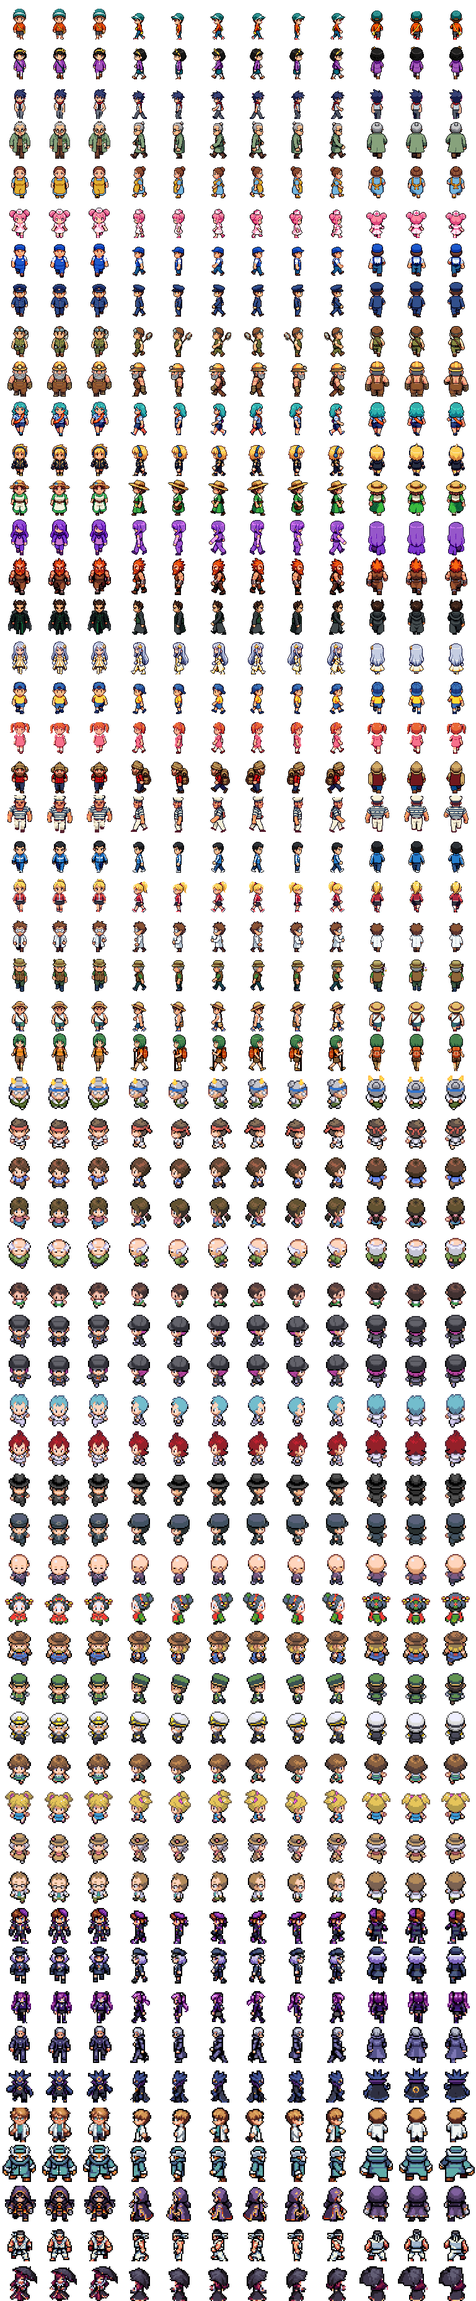
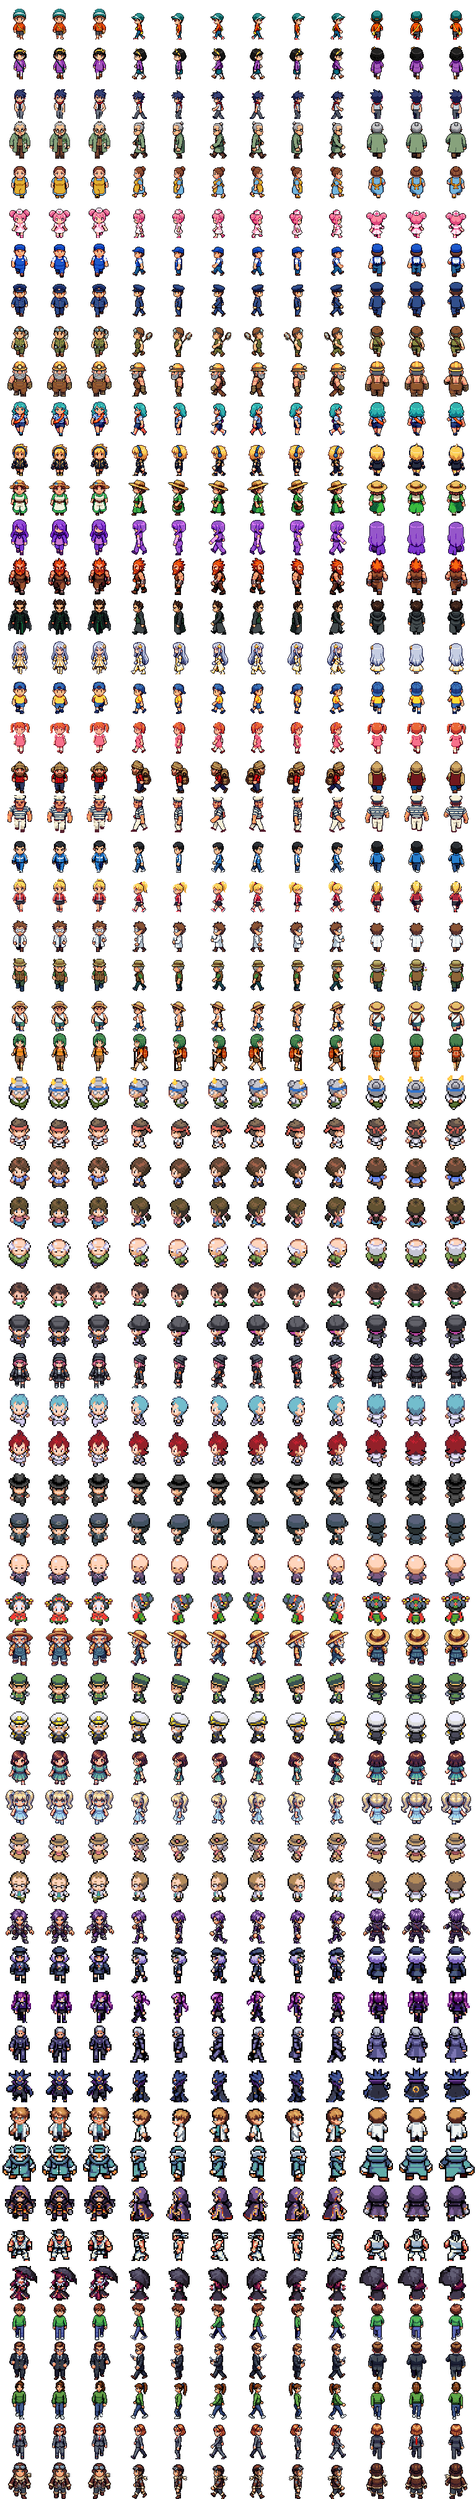
feat(odyssee): crée ton personnage et change de style à la boutique de mode de Métropole ; Odyssée 3.69
Claude-Session: https://claude.ai/code/session_01E9CUaRXpXWBZHeUs2KXzJU

diff --git a/odyssee/js/data/sprites.js b/odyssee/js/data/sprites.js
@@ -1,2 +1,2 @@
 // Généré par tools/odyssee-sprites.py — ne pas modifier à la main.
-export const SPRITES = {"crea":["capyousse","capyflore","capysaule","mechelet","ciroulet","lustrelle","narvi","narvalier","narvaillant","piouf","piouffon","plumorage","grignotin","ronchonnet","chouillon","hulumiere","larvoile","cocoreille","vitrailune","bourdonnet","champinou","champitron","cerfantome","noctaile","noctailor","galetin","rocrabe","cristaupe","bulotin","bulotide","croabulle","croamonde","crevitonne","gerbizz","gerboltz","ampoulet","tricotine","corolline","songebelle","revelaine","tisonnard","brasieraud","sombrecaille","nocturmine","frimousse","morsegivre","boulonnet","rouagant","draquelin","draconfle","cieldrake","odyssor","lutinelle","feerielle","pugnaton","poingtonnerre","spectrille","spectrelune","sablopode","dunosaure"],"chars":{"w":64,"h":64,"d":2,"rows":{"player_m":0,"player_f":1,"theo":2,"saule":3,"maman":4,"nurse":5,"vendeur":6,"garde":7,"hector":8,"basalte":9,"marine":10,"volta":11,"flora":12,"sibylle":13,"pyros":14,"drakos":15,"celestine":16,"gamin":17,"fillette":18,"montagnard":19,"marin":20,"topdresseur":21,"topdresseuse":22,"scientifique":23,"pecheur":24,"insectomane":25,"randonneuse":26,"medium":27,"karateka":28,"habitant":29,"habitante":30,"vieil_homme":31,"enfant":32,"brume":33,"brume_f":34,"sylas":35,"ariane":36,"nox":37,"voleur":38,"pretre":39,"kimono":40,"jardinier":41,"facteur":42,"capitaine":43,"lucie":44,"fillette2":45,"dame":46,"savant":47,"eclipse_m":48,"eclipse_f":49,"nyx":50,"erebe":51,"nocturne":52,"lumen":53,"frimas":54,"spectrel":55,"brutus":56,"ombrelle":57}},"portraits":["hector","basalte","marine","volta","flora","sibylle","pyros","drakos","celestine","saule","theo","gamin","fillette","montagnard","marin","topdresseur","topdresseuse","scientifique","pecheur","insectomane","randonneuse","medium","karateka","habitant","habitante"],"items":["poke-ball","great-ball","ultra-ball","potion","super-potion","hyper-potion","max-potion","full-heal","revive","antidote","paralyze-heal","awakening","burn-heal","ice-heal","full-restore","escape-rope","repel","super-repel","max-repel","rare-candy","fire-stone","water-stone","thunder-stone","leaf-stone","moon-stone","sun-stone","oran-berry","ether","elixir","bag","dex","town-map","wallet","notebook","letter","gift"],"nature":{"tree":[47,48,2],"tree2":[47,48,2],"pine":[43,60,2],"snowpine":[43,61,2],"deadtree":[39,57,2],"palm":[49,56,2],"bush":[27,24,2],"rock":[30,28,2],"caverock":[32,29,2],"stalag":[26,44,2],"tuft":[32,40,2],"tuft1":[36,40,2],"darktuft":[32,40,2],"flowers_r":[27,26,2],"flowers_y":[27,26,2],"flowers_w":[27,26,2],"sign":[26,36,2],"fence":[64,48,2],"lamp":[14,48,2],"mailbox":[23,35,2],"pot":[18,32,2],"itemball":[15,15,2],"bang":[14,16],"statue":[26,55,2],"tree3":[47,48,2],"crackrock":[32,28,2],"cuttree":[15,32,2],"snowtuft":[32,40,2],"gymstatue":[46,82,2],"tuft0":[36,40,2],"tuft2":[36,40,2],"tuft3":[36,40,2],"darktuft0":[36,40,2],"darktuft1":[36,40,2],"darktuft2":[36,40,2],"darktuft3":[36,40,2],"snowtuft0":[36,40,2],"snowtuft1":[36,40,2],"snowtuft2":[36,40,2],"grassfront":[32,28,2],"grassfront2":[32,28,2],"darkfront":[32,28,2],"darkfront2":[32,28,2],"snowfront":[32,28,2],"snowfront2":[32,28,2],"fence_v":[24,104,2],"fence_v0":[24,104,2],"velo_s":[28,42,2],"velo_w":[38,30,2],"velo_e":[38,30,2],"velo_n":[24,37,2]},"mobilier":{"healer":[41,40,2],"pc":[35,39,2],"books":[34,40,2],"tv":[26,31,2],"bed":[26,39,2],"table":[24,28,2],"plant":[25,40,2],"gymstatue":[46,82,2],"shelf":[34,39,2],"counterseg":[34,23,2],"chair":[16,32,2],"sofa":[40,26,2],"fridge":[21,40,2],"kitchen":[40,27,2],"clock":[19,40,2],"painting":[25,22,2],"boxes":[33,30,2],"labmachine":[25,40,2],"startertable":[41,28,2],"bench":[39,22,2],"trash":[17,22,2],"vase":[16,25,2],"fireplace":[35,40,2],"rug":[37,18,2]},"sol":["grass0","grass1","grass2","grass3","tall0","tall1","forest0","forest1","path","sand","pave","ash0","ash1","snow0","snow1","cave","water0","water1","water2","water3","deep","flowerR","flowerY","flowerW","ledge","ledgeE","ledgeW","bridge","stairs","cavestairs","mat","matgreen","cliff","cliffplain","cavewall","cavetop","wall_in","wall_center","wall_mart","wall_gym","wall_league","walltop","floor_wood","floor_center","floor_mart","floor_lab","floor_league","counter","floor_gymBug","floor_gymRock","floor_gymWater","floor_gymElec","floor_gymGrass","floor_gymPsy","floor_gymFire","floor_gymDragon","counterfront","martfront","shelf","roof_flat","lava0","lava1","grass4","grass5","darktall0","darktall1","snowtall0","snowtall1"],"facades":["arene","base","boutique","centre","chalet","grotte","labo","ligue","maison","mirage","musee","pagode","pecheur","phare","port"],"natureV2":true,"dresseurs":["player_m","player_f","theo","garde","hector","basalte","marine","volta","flora","sibylle","pyros","drakos","celestine","gamin","fillette","montagnard","marin","topdresseur","topdresseuse","scientifique","pecheur","insectomane","randonneuse","medium","karateka","habitant","habitante","vieil_homme","enfant","brume","brume_f","sylas","ariane","nox","voleur","pretre","kimono","brutus","ombrelle","spectrel","frimas","nocturne","eclipse_f","eclipse_m","erebe","nyx"],"sol32":["snow0","snow1","snow2","snow3","ash0","ash1","gravel0","gravel1","path0","path1","sand0","sand1","water0","water1","water2","water3","pave0","pave1","grass0","grass1","deep0","deep1","lava0","lava1","grass2","flowerW","flowerR","field","forest0","forest1","leaves0","leaves1","cliffG","cliffG2","cliffGstairs","cliffG3","cliffR","cliffR2","cliffRstairs","cliffR3","cliffS","cliffS2","cliffSstairs","cliffS3","stairs","stairs2","bridgeEW","bridgeEW2","bridgeNS","bridgeNS2","dock0","dock1","dockEnd0","dockEnd1","floor_wood","floor_wood2","floor_beige","floor_pink","floor_pink2","floor_blue","floor_blue2","floor_round","floor_dark","floor_grate","floor_marble","floor_marble2","carpetL","carpet","carpetR","carpet2","floor_metal","floor_metal2","floor_grate2","floor_hazard","cave0","cave1","cavepuddle","ice","crystal","floor_white","floor_stone","floor_dark2","floor_glyph","floor_glyph2","floor_sand","tatami","ledge","ledgeW","ledgeE","ladder","hole","waterrock","whirl","crackrock"],"herbes":{"prairie":["a","b","bl","bot","br","c","in_ne","in_nw","in_se","in_sw","l","r","t","tl","tr"],"bois":["a","b","bl","bot","br","c","in_ne","in_nw","in_se","in_sw","l","r","t","tl","tr"],"neige":["a","b","bl","bot","br","c","in_ne","in_nw","in_se","in_sw","l","r","t","tl","tr"]},"hgss":{"mer":[16,8],"rivage":[32,8],"vague":[16,4],"fleur_r":[16,4],"fleur_y":[16,4],"fleur_b":[16,4],"fleur_p":[16,4],"fleur_o":[16,3],"fleur_w":[16,3],"rocher_mer":[32,6]},"deco":{"erable":[24,32,1],"cerisier":[24,34,1],"arbre_automne":[24,31,1],"panneau_bois":[16,15,1],"banc":[24,17,1],"fontaine":[40,32,1],"gargouille":[12,27,1],"pilier_ball":[12,33,1],"caisse":[14,18,1],"tonneau":[12,16,1],"borne":[12,14,1],"bouee":[12,11,1],"parasol":[24,26,1],"bateau":[48,21,1],"lanterne":[12,26,1],"torii":[48,38,1],"stele":[12,27,1],"colonne":[12,41,1],"sanctuaire":[32,38,1],"cristal":[16,28,1],"rocher_grand":[20,19,1],"butte":[16,14,1],"machine_labo":[32,34,1],"table_balls":[32,19,1],"livres":[16,20,1],"lampe_phare":[24,32,1],"telescope":[16,26,1],"corde":[16,11,1],"trone":[32,39,1],"brasero":[14,30,1],"statue_dragon":[20,39,1],"console":[32,28,1],"ecran_carte":[32,27,1],"cuve":[16,37,1],"caisses":[16,29,1],"cloche":[32,30,1],"coussin":[16,14,1],"fossile":[32,25,1],"squelette":[64,31,1]},"carte":["arbre_o","arbre_v","arbres_o","remous","puits","grotte","grotte_p","grotte_m","cascade","colline","montagne"],"suiveurs":{"w":64,"h":64,"d":2,"rows":{"1":0,"2":1,"3":2,"4":3,"5":4,"6":5,"7":6,"8":7,"9":8,"152":9,"153":10,"154":11,"155":12,"156":13,"157":14,"158":15,"159":16,"160":17,"1001":18,"1002":19,"1003":20,"1004":21,"1005":22,"1006":23,"1007":24,"1008":25,"1009":26}}};
+export const SPRITES = {"crea":["capyousse","capyflore","capysaule","mechelet","ciroulet","lustrelle","narvi","narvalier","narvaillant","piouf","piouffon","plumorage","grignotin","ronchonnet","chouillon","hulumiere","larvoile","cocoreille","vitrailune","bourdonnet","champinou","champitron","cerfantome","noctaile","noctailor","galetin","rocrabe","cristaupe","bulotin","bulotide","croabulle","croamonde","crevitonne","gerbizz","gerboltz","ampoulet","tricotine","corolline","songebelle","revelaine","tisonnard","brasieraud","sombrecaille","nocturmine","frimousse","morsegivre","boulonnet","rouagant","draquelin","draconfle","cieldrake","odyssor","lutinelle","feerielle","pugnaton","poingtonnerre","spectrille","spectrelune","sablopode","dunosaure"],"chars":{"w":64,"h":64,"d":2,"rows":{"player_m":0,"player_f":1,"theo":2,"saule":3,"maman":4,"nurse":5,"vendeur":6,"garde":7,"hector":8,"basalte":9,"marine":10,"volta":11,"flora":12,"sibylle":13,"pyros":14,"drakos":15,"celestine":16,"gamin":17,"fillette":18,"montagnard":19,"marin":20,"topdresseur":21,"topdresseuse":22,"scientifique":23,"pecheur":24,"insectomane":25,"randonneuse":26,"medium":27,"karateka":28,"habitant":29,"habitante":30,"vieil_homme":31,"enfant":32,"brume":33,"brume_f":34,"sylas":35,"ariane":36,"nox":37,"voleur":38,"pretre":39,"kimono":40,"jardinier":41,"facteur":42,"capitaine":43,"lucie":44,"fillette2":45,"dame":46,"savant":47,"eclipse_m":48,"eclipse_f":49,"nyx":50,"erebe":51,"nocturne":52,"lumen":53,"frimas":54,"spectrel":55,"brutus":56,"ombrelle":57,"base_m":58,"pierre":59,"base_f":60,"margot":61,"aurele":62}},"portraits":["hector","basalte","marine","volta","flora","sibylle","pyros","drakos","celestine","saule","theo","gamin","fillette","montagnard","marin","topdresseur","topdresseuse","scientifique","pecheur","insectomane","randonneuse","medium","karateka","habitant","habitante"],"items":["poke-ball","great-ball","ultra-ball","potion","super-potion","hyper-potion","max-potion","full-heal","revive","antidote","paralyze-heal","awakening","burn-heal","ice-heal","full-restore","escape-rope","repel","super-repel","max-repel","rare-candy","fire-stone","water-stone","thunder-stone","leaf-stone","moon-stone","sun-stone","oran-berry","ether","elixir","bag","dex","town-map","wallet","notebook","letter","gift"],"nature":{"tree":[47,48,2],"tree2":[47,48,2],"pine":[43,60,2],"snowpine":[43,61,2],"deadtree":[39,57,2],"palm":[49,56,2],"bush":[27,24,2],"rock":[30,28,2],"caverock":[32,29,2],"stalag":[26,44,2],"tuft":[32,40,2],"tuft1":[36,40,2],"darktuft":[32,40,2],"flowers_r":[27,26,2],"flowers_y":[27,26,2],"flowers_w":[27,26,2],"sign":[26,36,2],"fence":[64,48,2],"lamp":[14,48,2],"mailbox":[23,35,2],"pot":[18,32,2],"itemball":[15,15,2],"bang":[14,16],"statue":[26,55,2],"tree3":[47,48,2],"crackrock":[32,28,2],"cuttree":[15,32,2],"snowtuft":[32,40,2],"gymstatue":[46,82,2],"tuft0":[36,40,2],"tuft2":[36,40,2],"tuft3":[36,40,2],"darktuft0":[36,40,2],"darktuft1":[36,40,2],"darktuft2":[36,40,2],"darktuft3":[36,40,2],"snowtuft0":[36,40,2],"snowtuft1":[36,40,2],"snowtuft2":[36,40,2],"grassfront":[32,28,2],"grassfront2":[32,28,2],"darkfront":[32,28,2],"darkfront2":[32,28,2],"snowfront":[32,28,2],"snowfront2":[32,28,2],"fence_v":[24,104,2],"fence_v0":[24,104,2],"velo_s":[28,42,2],"velo_w":[38,30,2],"velo_e":[38,30,2],"velo_n":[24,37,2]},"mobilier":{"healer":[41,40,2],"pc":[35,39,2],"books":[34,40,2],"tv":[26,31,2],"bed":[26,39,2],"table":[24,28,2],"plant":[25,40,2],"gymstatue":[46,82,2],"shelf":[34,39,2],"counterseg":[34,23,2],"chair":[16,32,2],"sofa":[40,26,2],"fridge":[21,40,2],"kitchen":[40,27,2],"clock":[19,40,2],"painting":[25,22,2],"boxes":[33,30,2],"labmachine":[25,40,2],"startertable":[41,28,2],"bench":[39,22,2],"trash":[17,22,2],"vase":[16,25,2],"fireplace":[35,40,2],"rug":[37,18,2]},"sol":["grass0","grass1","grass2","grass3","tall0","tall1","forest0","forest1","path","sand","pave","ash0","ash1","snow0","snow1","cave","water0","water1","water2","water3","deep","flowerR","flowerY","flowerW","ledge","ledgeE","ledgeW","bridge","stairs","cavestairs","mat","matgreen","cliff","cliffplain","cavewall","cavetop","wall_in","wall_center","wall_mart","wall_gym","wall_league","walltop","floor_wood","floor_center","floor_mart","floor_lab","floor_league","counter","floor_gymBug","floor_gymRock","floor_gymWater","floor_gymElec","floor_gymGrass","floor_gymPsy","floor_gymFire","floor_gymDragon","counterfront","martfront","shelf","roof_flat","lava0","lava1","grass4","grass5","darktall0","darktall1","snowtall0","snowtall1"],"facades":["arene","base","boutique","centre","chalet","grotte","labo","ligue","maison","mirage","musee","pagode","pecheur","phare","port"],"natureV2":true,"dresseurs":["player_m","player_f","theo","garde","hector","basalte","marine","volta","flora","sibylle","pyros","drakos","celestine","gamin","fillette","montagnard","marin","topdresseur","topdresseuse","scientifique","pecheur","insectomane","randonneuse","medium","karateka","habitant","habitante","vieil_homme","enfant","brume","brume_f","sylas","ariane","nox","voleur","pretre","kimono","brutus","ombrelle","spectrel","frimas","nocturne","eclipse_f","eclipse_m","erebe","nyx"],"sol32":["snow0","snow1","snow2","snow3","ash0","ash1","gravel0","gravel1","path0","path1","sand0","sand1","water0","water1","water2","water3","pave0","pave1","grass0","grass1","deep0","deep1","lava0","lava1","grass2","flowerW","flowerR","field","forest0","forest1","leaves0","leaves1","cliffG","cliffG2","cliffGstairs","cliffG3","cliffR","cliffR2","cliffRstairs","cliffR3","cliffS","cliffS2","cliffSstairs","cliffS3","stairs","stairs2","bridgeEW","bridgeEW2","bridgeNS","bridgeNS2","dock0","dock1","dockEnd0","dockEnd1","floor_wood","floor_wood2","floor_beige","floor_pink","floor_pink2","floor_blue","floor_blue2","floor_round","floor_dark","floor_grate","floor_marble","floor_marble2","carpetL","carpet","carpetR","carpet2","floor_metal","floor_metal2","floor_grate2","floor_hazard","cave0","cave1","cavepuddle","ice","crystal","floor_white","floor_stone","floor_dark2","floor_glyph","floor_glyph2","floor_sand","tatami","ledge","ledgeW","ledgeE","ladder","hole","waterrock","whirl","crackrock"],"herbes":{"prairie":["a","b","bl","bot","br","c","in_ne","in_nw","in_se","in_sw","l","r","t","tl","tr"],"bois":["a","b","bl","bot","br","c","in_ne","in_nw","in_se","in_sw","l","r","t","tl","tr"],"neige":["a","b","bl","bot","br","c","in_ne","in_nw","in_se","in_sw","l","r","t","tl","tr"]},"hgss":{"mer":[16,8],"rivage":[32,8],"vague":[16,4],"fleur_r":[16,4],"fleur_y":[16,4],"fleur_b":[16,4],"fleur_p":[16,4],"fleur_o":[16,3],"fleur_w":[16,3],"rocher_mer":[32,6]},"deco":{"erable":[24,32,1],"cerisier":[24,34,1],"arbre_automne":[24,31,1],"panneau_bois":[16,15,1],"banc":[24,17,1],"fontaine":[40,32,1],"gargouille":[12,27,1],"pilier_ball":[12,33,1],"caisse":[14,18,1],"tonneau":[12,16,1],"borne":[12,14,1],"bouee":[12,11,1],"parasol":[24,26,1],"bateau":[48,21,1],"lanterne":[12,26,1],"torii":[48,38,1],"stele":[12,27,1],"colonne":[12,41,1],"sanctuaire":[32,38,1],"cristal":[16,28,1],"rocher_grand":[20,19,1],"butte":[16,14,1],"machine_labo":[32,34,1],"table_balls":[32,19,1],"livres":[16,20,1],"lampe_phare":[24,32,1],"telescope":[16,26,1],"corde":[16,11,1],"trone":[32,39,1],"brasero":[14,30,1],"statue_dragon":[20,39,1],"console":[32,28,1],"ecran_carte":[32,27,1],"cuve":[16,37,1],"caisses":[16,29,1],"cloche":[32,30,1],"coussin":[16,14,1],"fossile":[32,25,1],"squelette":[64,31,1]},"carte":["arbre_o","arbre_v","arbres_o","remous","puits","grotte","grotte_p","grotte_m","cascade","colline","montagne"],"suiveurs":{"w":64,"h":64,"d":2,"rows":{"1":0,"2":1,"3":2,"4":3,"5":4,"6":5,"7":6,"8":7,"9":8,"152":9,"153":10,"154":11,"155":12,"156":13,"157":14,"158":15,"159":16,"160":17,"1001":18,"1002":19,"1003":20,"1004":21,"1005":22,"1006":23,"1007":24,"1008":25,"1009":26}}};

diff --git a/odyssee/js/render/tenue.js b/odyssee/js/render/tenue.js
@@ -51,6 +51,12 @@ function retoucher(px, W, dir, T) {
     top = Math.min(top, y); bot = Math.max(bot, y);
   }
   if (bot < 0) return { top: 0, cx: W / 2 };
+  // pixels égarés : du « haut » sous la taille (reflets des chaussures), du « bas » au-dessus du buste (élastique des cheveux)
+  if (zones.haut && zones.bas) {
+    const my = (L) => L.reduce((t, [, y]) => t + y, 0) / L.length, mh = my(zones.haut), mb = my(zones.bas);
+    const tri = (k, ok) => { const keep = [], out = zones.autre = zones.autre || []; for (const q of zones[k]) (ok(q[1]) ? keep : out).push(q); for (const q of out) if (cls[q[1] * W + q[0]] === k) cls[q[1] * W + q[0]] = 'autre'; zones[k] = keep; };
+    tri('haut', (y) => y < mb - 1); tri('bas', (y) => y > mh);
+  }
   const box = (L) => { if (!L || !L.length) return null; let x0 = W, x1 = 0, y0 = W, y1 = 0, sx = 0; for (const [x, y] of L) { x0 = Math.min(x0, x); x1 = Math.max(x1, x); y0 = Math.min(y0, y); y1 = Math.max(y1, y); sx += x; } return { x0, x1, y0, y1, cx: sx / L.length }; };
   const bH = box(zones.haut), bB = box(zones.bas);
   const meanV = (L) => { let s = 0; for (const [x, y] of L) { const o = at(x, y); s += rgbHsv(px[o], px[o + 1], px[o + 2])[2]; } return s / L.length || 1; };
@@ -76,10 +82,17 @@ function retoucher(px, W, dir, T) {
   if (zones.haut) {
     const mv = meanV(zones.haut), H = bH.y1 - bH.y0 + 1;
     // largeur du buste à la taille (dernière rangée du haut) : au-delà, ce sont les bras
-    let tl = W, tr = 0; for (const [x, y] of zones.haut) if (y >= bH.y1 - 1) { tl = Math.min(tl, x); tr = Math.max(tr, x); }
-    const face = dir === 'down' || dir === 'up';
+    // dans chaque rangée, la plage de « haut » qui contient le milieu est le buste ; les autres plages sont les bras
+    const face = dir === 'down' || dir === 'up', coude = bH.y0 + Math.round(H * 0.4);
+    const buste = new Set();
+    if (face) for (let y = bH.y0; y <= bH.y1; y++) {
+      const enHaut = (x) => cls[y * W + x] === 'haut' || cls[y * W + x] === 'blanc' && dir === 'down';
+      let a = cx, b = cx; if (!enHaut(cx)) continue;
+      while (a > 0 && enHaut(a - 1)) a--; while (b < W - 1 && enHaut(b + 1)) b++;
+      for (let x = a; x <= b; x++) buste.add(y * W + x);
+    }
     for (const [x, y] of zones.haut) {
-      const bras = face && (x < tl || x > tr), coude = bH.y0 + Math.round(H * 0.42);
+      const bras = face && !buste.has(y * W + x);
       if (T.haut === 'tshirt' && bras && y > coude) { vers(x, y, T.peau, mv * 0.95); continue; }
       let c = T.hautC;
       if (dir === 'down' && T.haut === 'veste' && Math.abs(x - cx) <= 1 && y < bH.y1) c = '#f4f4ee';   // veste ouverte sur un t-shirt blanc
@@ -101,7 +114,12 @@ function retoucher(px, W, dir, T) {
       else vers(x, y, T.chaussuresC, mv);
     }
   }
-  return { top, bot, cx, bH };
+  // haut de la tête et ligne du front (première rangée de peau du visage)
+  let front = null; for (const [x, y] of zones.peau || []) if (y < top + 22 && (front == null || y < front)) front = y;
+  // le crâne : première rangée assez large (une couette qui dépasse ne compte pas) ; le cou : début du haut
+  let crane = top; for (let y = top; y < W; y++) { let n = 0; for (let x = 0; x < W; x++) if (px[at(x, y) + 3] >= 128) n++; if (n >= 7) { crane = y; break; } }
+  const cou = bH ? bH.y0 : crane + 18;
+  return { top, bot, cx, bH, cls, front, crane, cou };
 }
 const x0b = (x) => x;
 const shadeHex = (hex, k) => '#' + shadeOf(hex, k).map((v) => v.toString(16).padStart(2, '0')).join('');
@@ -113,23 +131,71 @@ function dessin(ctx) {
     rect(x, y, w, h, rgb) { ctx.fillStyle = `rgb(${rgb[0]},${rgb[1]},${rgb[2]})`; ctx.fillRect(x, y, w, h); },
   };
 }
-/** chapeau calé sur le haut de la tête : casquette (visière vers l'avant) ou bonnet (revers et pompon) */
-function chapeau(D, info, dir, T, hw) {
+/**
+ * chapeau posé sur les cheveux : les cheveux du haut du crâne prennent la couleur du chapeau (avec leurs ombres),
+ * la silhouette s'épaissit d'un pixel, puis la visière (casquette) ou le revers et le pompon (bonnet)
+ */
+function chapeau(px, W, info, dir, T) {
   if (T.chapeau === 'aucun') return;
-  const c = shadeOf(T.chapeauC, 0), dk = shadeOf(T.chapeauC, -0.35), lt = shadeOf(T.chapeauC, 0.35), ol = [26, 22, 30];
-  const y0 = info.top - 1, cx = info.hx, half = Math.max(5, Math.round(hw / 2) + 1);
-  const dome = (h) => { for (let j = 0; j < h; j++) { const w = Math.round(half * Math.sqrt(1 - ((h - 1 - j) / h) ** 2)) + (j > 1 ? 1 : 0); D.rect(cx - w, y0 + j, 2 * w + 1, 1, j === 0 ? lt : c); D.p(cx - w - 1, y0 + j, ol); D.p(cx + w + 1, y0 + j, ol); } D.rect(cx - Math.round(half * 0.6), y0 - 1, Math.round(half * 1.2) + 1, 1, ol); };
-  if (T.chapeau === 'casquette') {
-    dome(5);
-    D.rect(cx - half, y0 + 4, 2 * half + 1, 1, dk);
-    if (dir === 'down') { D.rect(cx - half + 1, y0 + 5, 2 * half - 1, 2, dk); D.rect(cx - half + 1, y0 + 7, 2 * half - 1, 1, ol); }
-    else if (dir === 'left') { D.rect(cx - half - 4, y0 + 4, 6, 2, dk); D.rect(cx - half - 4, y0 + 6, 6, 1, ol); }
-    else if (dir === 'right') { D.rect(cx + half - 1, y0 + 4, 6, 2, dk); D.rect(cx + half - 1, y0 + 6, 6, 1, ol); }
-    else D.rect(cx - 2, y0 + 3, 5, 2, ol);   // l'arrière : la petite ouverture réglable
+  const at = (x, y) => (y * W + x) * 4, op = (x, y) => x >= 0 && y >= 0 && x < W && y < W && px[at(x, y) + 3] > 128;
+  const set = (x, y, rgb) => { if (x < 0 || y < 0 || x >= W || y >= W) return; const o = at(x, y); px[o] = rgb[0]; px[o + 1] = rgb[1]; px[o + 2] = rgb[2]; px[o + 3] = 255; };
+  const ol = [30, 24, 34], c = shadeOf(T.chapeauC, 0), dk = shadeOf(T.chapeauC, -0.32), dk2 = shadeOf(T.chapeauC, -0.5), lt = shadeOf(T.chapeauC, 0.3);
+  const top = info.crane, bonnet = T.chapeau === 'bonnet';
+  // le chapeau descend jusqu'au front : un peu moins de la moitié de la hauteur de la tête
+  const base = top + Math.max(5, Math.round((info.cou - top) * (bonnet ? 0.4 : 0.36)));
+  const front = dir === 'up' ? W : base;
+  const rows = [];
+  for (let y = top; y <= base; y++) {
+    let a = -1, b = -1; for (let x = 0; x < W; x++) if (op(x, y)) { if (a < 0) a = x; b = x; }
+    rows.push([y, a, b]);
+  }
+  // largeur de la tête à la base du chapeau (les mèches au-dessus ne comptent pas)
+  let L = W, R = 0; for (const [y, a, b] of rows) if (a >= 0 && y >= base - 2) { L = Math.min(L, a); R = Math.max(R, b); }
+  if (R <= L) return;
+  const cxh = (L + R) / 2, hw = (R - L) / 2 + 0.5, H = base - top + (bonnet ? 1 : 0);
+  // les mèches qui dépassent disparaissent sous le chapeau
+  for (let y = Math.max(0, info.top - 1); y <= base; y++) for (let x = Math.max(0, L - 3); x <= Math.min(W - 1, R + 3); x++) {
+    const k = info.cls[y * W + x]; if (k === 'peau' && y > front) continue;
+    if (y < base - 1 && op(x, y)) px[at(x, y) + 3] = 0;
+  }
+  // le dôme : une demi-ellipse posée sur la tête, ombrée (lumière en haut à gauche)
+  const y0 = base - H;
+  for (let y = y0; y <= base; y++) {
+    const t = (base - y) / (H + 0.5), w = hw * Math.sqrt(Math.max(0, 1 - t * t));
+    const a = Math.round(cxh - w), b = Math.round(cxh + w);
+    for (let x = a; x <= b; x++) {
+      const k = info.cls[y * W + x]; if (k === 'peau' && y > front && x > a && x < b) continue;
+      const sh = (x - cxh) / hw;
+      set(x, y, x === a || x === b ? ol : y - y0 <= 1 && sh < 0.3 ? lt : sh > 0.45 ? dk : c);
+    }
+    if (y === y0) for (let x = a; x <= b; x++) set(x, y - 1, ol);
+  }
+  const Li = Math.round(cxh - hw), Ri = Math.round(cxh + hw);
+  L = Li; R = Ri;
+  const top2 = y0;
+  if (bonnet) {
+    // revers côtelé sur deux rangées, un peu plus large que la tête
+    for (const y of [base - 1, base]) for (let x = L - 1; x <= R + 1; x++) set(x, y, x === L - 1 || x === R + 1 ? ol : (x + y) % 2 ? dk : c);
+    for (let x = L - 1; x <= R + 1; x++) set(x, base + 1, ol);
+    // pompon : une petite boule ronde sur le dessus
+    const px0 = Math.round(cxh), py0 = top2 - 3;
+    for (let dy = -3; dy <= 3; dy++) for (let dx = -3; dx <= 3; dx++) {
+      const d = Math.hypot(dx, dy); if (d > 2.6) continue;
+      set(px0 + dx, py0 + dy, d > 1.7 ? ol : dx + dy < -1 ? [250, 250, 250] : dx + dy > 1 ? shadeOf('#e8e8f0', -0.25) : [232, 232, 240]);
+    }
   } else {
-    dome(6);
-    D.rect(cx - half - 1, y0 + 5, 2 * half + 3, 2, lt); D.rect(cx - half - 1, y0 + 7, 2 * half + 3, 1, dk);
-    D.rect(cx - 1, y0 - 3, 3, 3, lt); D.p(cx, y0 - 3, [255, 255, 255]);
+    // bande à la base, puis la visière
+    for (let x = L; x <= R; x++) if (op(x, base)) set(x, base, x === L || x === R ? ol : dk);
+    if (dir === 'down') {
+      for (let x = L + 1; x <= R - 1; x++) { set(x, base + 1, dk2); }
+      set(L, base + 1, ol); set(R, base + 1, ol); for (let x = L + 1; x <= R - 1; x++) set(x, base + 2, ol);
+    } else if (dir === 'left' || dir === 'right') {
+      const s = dir === 'left' ? -1 : 1, x0 = s < 0 ? L : R;
+      for (let k = 0; k <= 5; k++) { const x = x0 + s * k; set(x, base, k === 5 ? ol : dk); set(x, base + 1, ol); set(x, base - 1, k >= 1 ? ol : dk); }
+    } else {
+      const m = Math.round(cxh); for (let x = m - 2; x <= m + 2; x++) set(x, base - 1, ol);   // l'arrière : la petite ouverture réglable
+      set(m - 1, base, ol); set(m, base, ol); set(m + 1, base, ol);
+    }
   }
 }
 /** sac à dos (gros rectangle dans le dos, bretelles devant) ou sacoche en bandoulière */
@@ -166,13 +232,14 @@ export function composer(src, sx, sy, T, doc = typeof document !== 'undefined' ?
     x.drawImage(src, sx + i * W, sy, W, W, 0, 0, W, W);
     const im = x.getImageData(0, 0, W, W);
     const info = retoucher(im.data, W, dir, T);
+    chapeau(im.data, W, info, dir, T);
     x.putImageData(im, 0, 0);
     // tête : centre et largeur sur les premières rangées
     let sxx = 0, n = 0, l = W, r = 0;
     for (let y = info.top; y < info.top + 8; y++) for (let k = 0; k < W; k++) if (im.data[(y * W + k) * 4 + 3] > 128) { sxx += k; n++; l = Math.min(l, k); r = Math.max(r, k); }
     info.hx = n ? Math.round(sxx / n) : W >> 1;
     const D = dessin(x);
-    if (dir === 'up') { chapeau(D, info, dir, T, r - l); sac(D, info, dir, T); } else { sac(D, info, dir, T); chapeau(D, info, dir, T, r - l); }
+    sac(D, info, dir, T);
     ctx.drawImage(c, i * W, 0);
   }
   return out;

diff --git a/index.html b/index.html
@@ -25,7 +25,7 @@
 <link rel="preconnect" href="https://fonts.googleapis.com">
 <link rel="preconnect" href="https://fonts.gstatic.com" crossorigin>
 <link href="https://fonts.googleapis.com/css2?family=Bungee&family=Chakra+Petch:wght@500;600;700&display=swap" rel="stylesheet">
-<link rel="stylesheet" href="hub/hub.css?v=3.68">
+<link rel="stylesheet" href="hub/hub.css?v=3.69">
 </head>
 <body>
 
@@ -136,20 +136,20 @@
 <!-- JEU -->
 <section class="screen" id="play"></section>
 
-<script src="shared/logger.js?v=3.68"></script>
-<script src="shared/net.js?v=3.68"></script>
-<script src="shared/room.js?v=3.68"></script>
-<script src="shared/profile.js?v=3.68"></script>
-<script src="shared/results.js?v=3.68"></script>
-<script src="shared/volume.js?v=3.68"></script>
-<script src="shared/uisfx.js?v=3.68"></script>
-<script src="hub/nettest.js?v=3.68"></script>
-<script src="hub/games.js?v=3.68"></script>
-<script src="hub/account.js?v=3.68"></script>
-<script src="hub/friends.js?v=3.68"></script>
-<script src="hub/hub.js?v=3.68"></script>
-<script src="hub/home.js?v=3.68"></script>
-<script src="hub/ingame.js?v=3.68"></script>
-<script type="module" src="hub/music.js?v=3.68"></script>
+<script src="shared/logger.js?v=3.69"></script>
+<script src="shared/net.js?v=3.69"></script>
+<script src="shared/room.js?v=3.69"></script>
+<script src="shared/profile.js?v=3.69"></script>
+<script src="shared/results.js?v=3.69"></script>
+<script src="shared/volume.js?v=3.69"></script>
+<script src="shared/uisfx.js?v=3.69"></script>
+<script src="hub/nettest.js?v=3.69"></script>
+<script src="hub/games.js?v=3.69"></script>
+<script src="hub/account.js?v=3.69"></script>
+<script src="hub/friends.js?v=3.69"></script>
+<script src="hub/hub.js?v=3.69"></script>
+<script src="hub/home.js?v=3.69"></script>
+<script src="hub/ingame.js?v=3.69"></script>
+<script type="module" src="hub/music.js?v=3.69"></script>
 </body>
 </html>

diff --git a/odyssee/js/main.js b/odyssee/js/main.js
@@ -459,7 +459,7 @@ async function intro(game, ui, sound) {
 
   chap.textContent = 'CHOISIS TON APPARENCE DE DRESSEUR';
   ui.say('Mais parle-moi un peu de toi... Qui es-tu ?', { speaker: 'Prof. Saule', keep: true, noWaitLast: true });
-  const gender = await chooseGenderCard(ui, input, sound, s);
+  let gender = await chooseGenderCard(ui, input, sound, s);
 
   // l'apparence : casquette ou bonnet, haut, bas, chaussures, sac, couleurs (si le modèle de base est dessiné)
   let tenue = null;
@@ -468,10 +468,11 @@ async function intro(game, ui, sound) {
     s.style.visibility = 'hidden';
     tenue = await apparenceScreen(ui, { premiere: true, tenue: { genre: gender }, base: (g) => game.view.baseDe(g) });
     s.style.visibility = '';
+    if (tenue?.genre) gender = tenue.genre;
   }
 
   chap.textContent = 'INSCRIPTION À LA LIGUE D\'ODYSSÉE';
-  const name = await chooseTrainerName(ui, input, sound, tenue?.genre || gender, s);
+  const name = await chooseTrainerName(ui, input, sound, gender, s);
 
   chap.textContent = `${name.toUpperCase()} & THÉO · DÉPART À BOURG-AUBE`;
   ped.style.opacity = '1';
@@ -500,7 +501,7 @@ async function intro(game, ui, sound) {
   s.classList.add('out');
   await wait(480);
   s.remove();
-  const st = game.newState(name, tenue?.genre || gender); if (tenue) st.tenue = tenue;
+  const st = game.newState(name, gender); if (tenue) st.tenue = tenue;
   return st;
 }
 

diff --git a/odyssee/odyssee.css b/odyssee/odyssee.css
@@ -2743,7 +2743,7 @@ kbd { display: inline-block; font: inherit; font-size: .85em; min-width: 1.4em; 
 .appar { flex: 1; display: flex; gap: calc(var(--px) * 8); align-items: center; justify-content: center; }
 .appar-prev { display: grid; grid-template-columns: repeat(2, auto); gap: calc(var(--px) * 3); background: rgba(255,255,255,.18); border-radius: calc(var(--px) * 6); padding: calc(var(--px) * 6); }
 .appar-prev canvas { width: calc(var(--px) * 64); height: calc(var(--px) * 64); image-rendering: pixelated; background: radial-gradient(#8fd08a, #5aa860); border-radius: calc(var(--px) * 4); }
-.appar-opts { min-width: calc(var(--px) * 150); font-size: calc(var(--px) * 8); }
+.appar-opts { min-width: calc(var(--px) * 150); font-size: calc(var(--px) * 8); max-height: 78%; overflow-y: auto; }
 .appar-opts .list-row { display: flex; } .appar-opts .rgt { margin-left: auto; white-space: nowrap; }
 .pastille { display: inline-block; width: calc(var(--px) * 7); height: calc(var(--px) * 7); border-radius: 50%; border: 1px solid #2228; vertical-align: middle; margin-right: calc(var(--px) * 2); }
 .appar-aide { text-align: center; color: #fff; text-shadow: var(--px) var(--px) 0 #283850; font-size: calc(var(--px) * 7); }

diff --git a/odyssee/js/render/world3d.js b/odyssee/js/render/world3d.js
@@ -75,7 +75,7 @@ export const CHAR_ROWS = { ...((SPRITES.chars && SPRITES.chars.rows) || {}) };
 // taille d'une case de la planche des personnages (32 × 32 depuis la version 2 de la bible)
 const CW = SPRITES.chars?.w || 24, CHH = SPRITES.chars?.h || 32, CD = SPRITES.chars?.d || 1;
 // personnages des Terres du Sud en attendant leur dessin : un sosie proche
-const CHAR_ALIAS = { margot: 'topdresseuse', aurele: 'marin', morgane: 'medium', gaspard: 'montagnard', ferdinand: 'montagnard', lilas: 'fillette', corbin: 'topdresseur', pierre: 'topdresseur', croupier: 'vendeur', red: 'player_m', green: 'player_f', prof: 'scientifique', clerk: 'vendeur', youngster: 'gamin', lass: 'habitante', sailor: 'marin', hiker: 'montagnard', cooltrainer_f: 'habitante' };
+const CHAR_ALIAS = { morgane: 'medium', gaspard: 'montagnard', ferdinand: 'montagnard', lilas: 'fillette', corbin: 'topdresseur', croupier: 'vendeur', red: 'player_m', green: 'player_f', prof: 'scientifique', clerk: 'vendeur', youngster: 'gamin', lass: 'habitante', sailor: 'marin', hiker: 'montagnard', cooltrainer_f: 'habitante' };
 const DIR_COL = { down: 0, left: 1, right: 2, up: 3 };
 
 function tex(canvasOrImg) {

diff --git a/odyssee/js/ui/apparence.js b/odyssee/js/ui/apparence.js
@@ -42,6 +42,15 @@ export function apparenceScreen(ui, o = {}) {
       }
     };
     recompose(); draw();
+    // au doigt ou à la souris : toucher une ligne la choisit, toucher ◀ ou ▶ change la valeur
+    opts.addEventListener('click', (e) => {
+      const row = e.target.closest('.list-row'); if (!row) return;
+      const k = [...opts.children].indexOf(row), R = rows();
+      if (k === R.length) { ui.sound.sfx('select'); close(T); return; }
+      i = k; const r = row.querySelector('.rgt').getBoundingClientRect();
+      if (e.clientX >= r.left) { const l = R[i], [n, L] = valeur(l), d = e.clientX < r.left + r.width / 2 ? -1 : 1; T[l[0]] = L[(n + d + L.length) % L.length][0]; recompose(); }
+      ui.sound.sfx('blip'); draw();
+    });
     const anim = setInterval(() => { t++; draw(); }, 420);
     const close = (v) => { clearInterval(anim); pop(); s.remove(); resolve(v); };
     const pop = ui.input.push((k) => {

diff --git a/apropos.html b/apropos.html
@@ -13,7 +13,7 @@
 <link rel="preconnect" href="https://fonts.googleapis.com">
 <link rel="preconnect" href="https://fonts.gstatic.com" crossorigin>
 <link href="https://fonts.googleapis.com/css2?family=Bungee&family=Chakra+Petch:wght@500;600;700&display=swap" rel="stylesheet">
-<link rel="stylesheet" href="hub/hub.css?v=3.68">
+<link rel="stylesheet" href="hub/hub.css?v=3.69">
 <style>
   .doc{width:min(860px,100%);margin:0 auto;display:flex;flex-direction:column;gap:22px}
   .doc .card h2{margin-top:0}

diff --git a/hub/hub.js b/hub/hub.js
@@ -1,7 +1,7 @@
 /* Hub : profil, salon commun et lancement des jeux dans une iframe.
    Le salon (DDRoom) vit ici pendant toute la session : changer de jeu ne coupe pas la connexion. */
 (function () {
-  const VERSION = '3.68';
+  const VERSION = '3.69';
   const $ = (s) => document.querySelector(s);
   const ORIGIN = location.origin === 'null' ? '*' : location.origin;
   const GAMES = window.HUB_GAMES;

diff --git a/CHANGELOG.md b/CHANGELOG.md
@@ -1,5 +1,10 @@
 # Journal des versions — Arcadia
 
+## 3.69 — 3 novembre 2026
+- **Odyssée** — Crée ton personnage au début de l'aventure : garçon ou fille, couleur de peau et de cheveux, casquette ou bonnet, pull, t-shirt, veste ou chemise, pantalon ou short, baskets ou sandales, sac à dos ou sacoche, et la couleur de chaque vêtement.
+- **Odyssée** — La boutique de mode de Métropole ouvre : sa cabine d'essayage permet de changer de style quand on veut.
+- **Odyssée** — Nouveaux dessins pour Pierre, Margot, Aurèle, le vieux jardinier, Lucie, la fillette au médaillon, Brume et les sbires de la Team Éclipse.
+
 ## 3.68 — 3 novembre 2026
 - **Odyssée** — Cinq nouveaux dresseurs sur les routes du nord (Route 1, Route 3, Route 7 et Route 10).
 - **Odyssée** — La carte de la région montre le Pont de l'Austral qui relie Bourg-Aube aux Terres du Sud.
